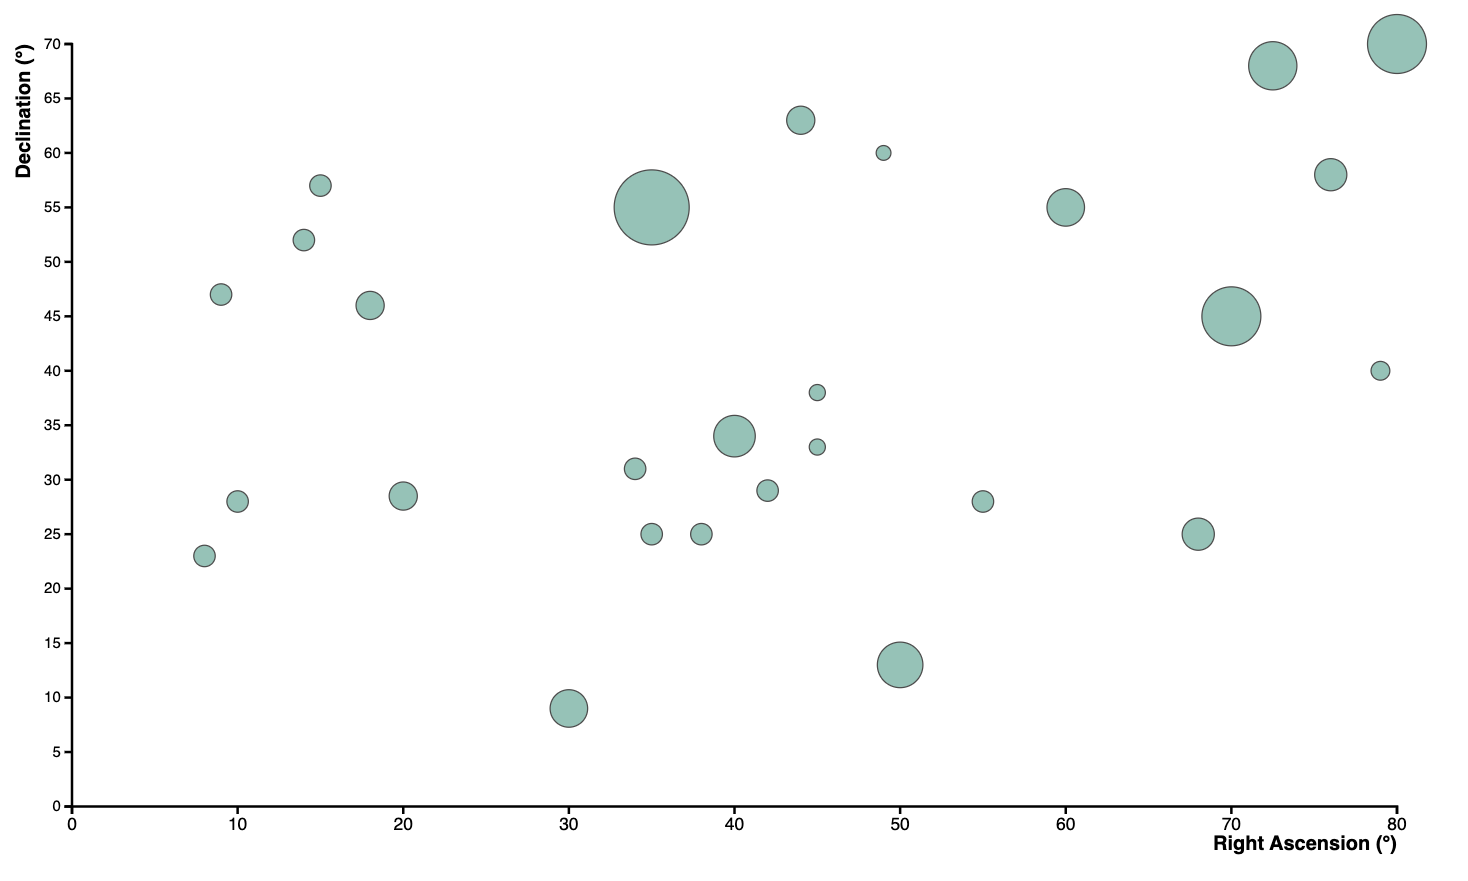
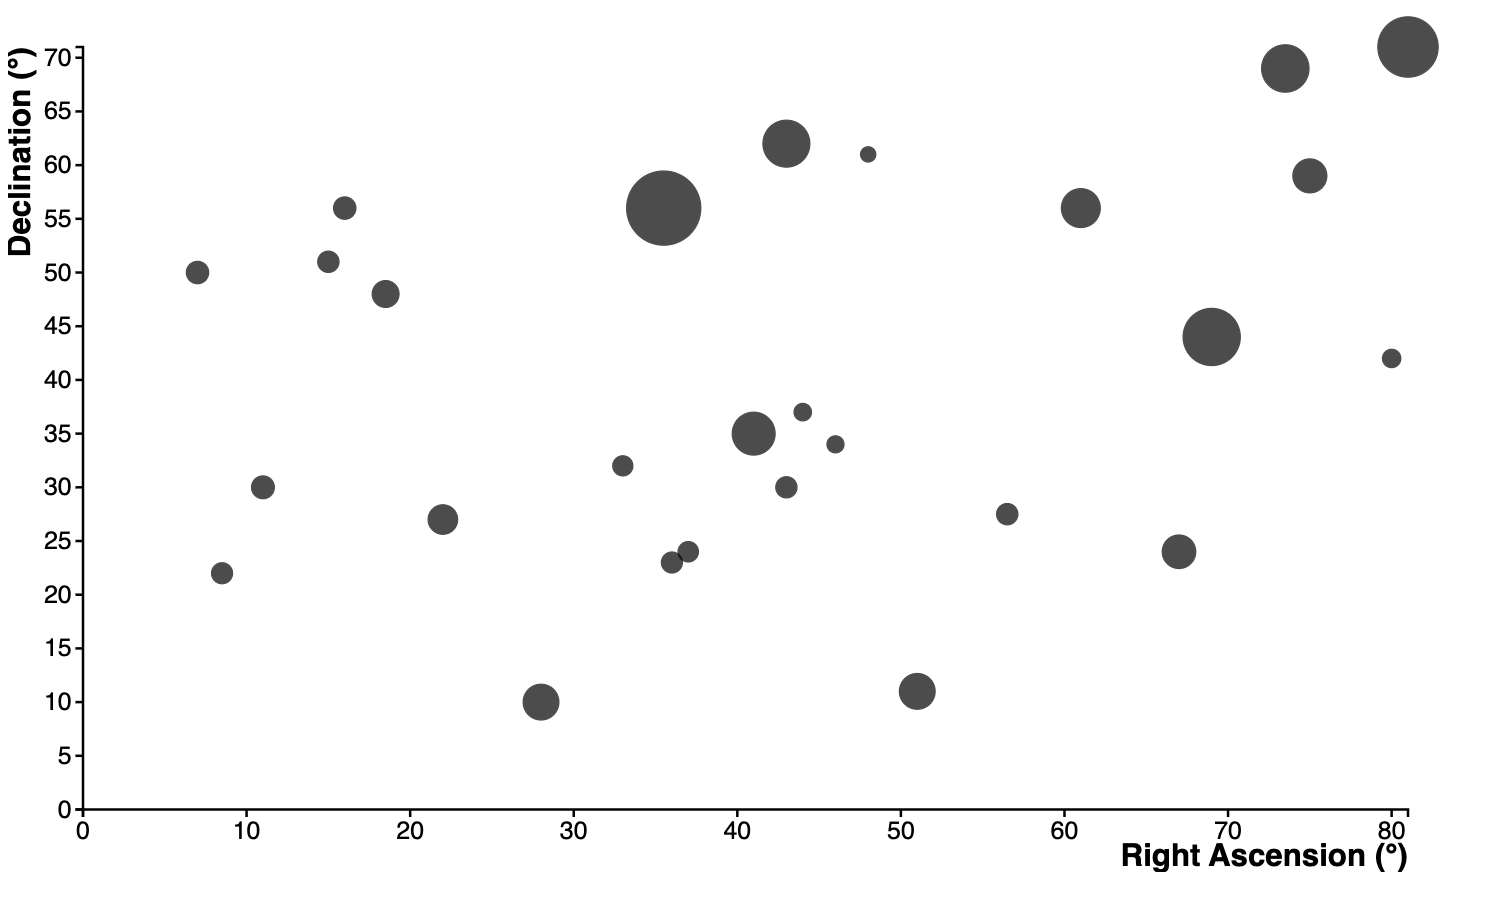
added bubble

diff --git a/dist/bundle.js b/dist/bundle.js
@@ -10,13 +10,13 @@
 /******/ 	"use strict";
 /******/ 	var __webpack_modules__ = ({
 
-/***/ "./butterfly/main.ts":
-/*!***************************!*\
-  !*** ./butterfly/main.ts ***!
-  \***************************/
+/***/ "./scatter/main.ts":
+/*!*************************!*\
+  !*** ./scatter/main.ts ***!
+  \*************************/
 /***/ (function(__unused_webpack_module, exports, __webpack_require__) {
 
-eval("\nvar __createBinding = (this && this.__createBinding) || (Object.create ? (function(o, m, k, k2) {\n    if (k2 === undefined) k2 = k;\n    var desc = Object.getOwnPropertyDescriptor(m, k);\n    if (!desc || (\"get\" in desc ? !m.__esModule : desc.writable || desc.configurable)) {\n      desc = { enumerable: true, get: function() { return m[k]; } };\n    }\n    Object.defineProperty(o, k2, desc);\n}) : (function(o, m, k, k2) {\n    if (k2 === undefined) k2 = k;\n    o[k2] = m[k];\n}));\nvar __setModuleDefault = (this && this.__setModuleDefault) || (Object.create ? (function(o, v) {\n    Object.defineProperty(o, \"default\", { enumerable: true, value: v });\n}) : function(o, v) {\n    o[\"default\"] = v;\n});\nvar __importStar = (this && this.__importStar) || function (mod) {\n    if (mod && mod.__esModule) return mod;\n    var result = {};\n    if (mod != null) for (var k in mod) if (k !== \"default\" && Object.prototype.hasOwnProperty.call(mod, k)) __createBinding(result, mod, k);\n    __setModuleDefault(result, mod);\n    return result;\n};\nvar __importDefault = (this && this.__importDefault) || function (mod) {\n    return (mod && mod.__esModule) ? mod : { \"default\": mod };\n};\nObject.defineProperty(exports, \"__esModule\", ({ value: true }));\nconst d3 = __importStar(__webpack_require__(/*! d3 */ \"./node_modules/d3/src/index.js\"));\nconst phase2_json_1 = __importDefault(__webpack_require__(/*! ./phase2.json */ \"./butterfly/phase2.json\"));\n// Set up the SVG canvas dimensions\nconst margin = { top: 30, right: 40, bottom: 40, left: 40 };\nconst width = 960 - margin.left - margin.right;\nconst height = 500 - margin.top - margin.bottom;\nconst svg = d3.select('#butterfly')\n    .append('svg')\n    .attr('width', width + margin.left + margin.right)\n    .attr('height', height + margin.top + margin.bottom)\n    .append('g')\n    .attr('transform', `translate(${margin.left},${margin.top})`);\n// Process the data\nconst data = phase2_json_1.default.map(d => ({\n    nailID: d.nailID,\n    totalLength: +d.totalLength,\n    depthBelowSurface: +d.depthBelowSurface,\n    lengthAboveSurface: +d.lengthAboveSurface\n}));\n// Define scales\n// xScale: from -15 to 15, with 0 in the center\nconst maxDepth = d3.max(data, d => d.depthBelowSurface);\nconst maxLength = d3.max(data, d => d.lengthAboveSurface);\nconst maxValue = Math.max(maxDepth, maxLength, 15); // Ensure axis extends to at least 15\nconst xScale = d3.scaleLinear()\n    .domain([-maxValue, maxValue])\n    .range([0, width]);\n// yScale: Each nailID along the vertical axis\nconst yScale = d3.scaleBand()\n    .domain(data.map(d => d.nailID.toString()))\n    .range([0, height])\n    .padding(0.1);\n// Define left and right colors\nconst depthColor = 'steelblue'; // Left side (negative values)\nconst lengthColor = 'orange'; // Right side (positive values)\n// Add x-axis\nconst xAxis = d3.axisBottom(xScale)\n    .ticks(10);\nsvg.append('g')\n    .attr('transform', `translate(0,${height})`)\n    .call(xAxis);\n// Add y-axis\nconst yAxis = d3.axisLeft(yScale);\nsvg.append('g')\n    .call(yAxis);\n// Draw the bars for depthBelowSurface (left side)\nsvg.selectAll('.bar-depth')\n    .data(data)\n    .enter()\n    .append('rect')\n    .attr('class', 'bar-depth')\n    .attr('x', d => xScale(-d.depthBelowSurface))\n    .attr('y', d => yScale(d.nailID.toString()))\n    .attr('width', d => xScale(0) - xScale(-d.depthBelowSurface))\n    .attr('height', yScale.bandwidth())\n    .attr('fill', depthColor);\n// Draw the bars for lengthAboveSurface (right side)\nsvg.selectAll('.bar-length')\n    .data(data)\n    .enter()\n    .append('rect')\n    .attr('class', 'bar-length')\n    .attr('x', xScale(0))\n    .attr('y', d => yScale(d.nailID.toString()))\n    .attr('width', d => xScale(d.lengthAboveSurface) - xScale(0))\n    .attr('height', yScale.bandwidth())\n    .attr('fill', lengthColor);\n// Add a vertical line at x = 0 (the central axis)\nsvg.append('line')\n    .attr('x1', xScale(0))\n    .attr('y1', 0)\n    .attr('x2', xScale(0))\n    .attr('y2', height)\n    .attr('stroke', 'black')\n    .attr('stroke-width', 1);\n// Optional: Add titles for each side\nsvg.append('text')\n    .attr('x', xScale(-maxValue / 2))\n    .attr('y', -10)\n    .attr('text-anchor', 'middle')\n    .attr('fill', depthColor)\n    .text('Depth into Wall (cm)');\nsvg.append('text')\n    .attr('x', xScale(maxValue / 2))\n    .attr('y', -10)\n    .attr('text-anchor', 'middle')\n    .attr('fill', lengthColor)\n    .text('Exposed Length (cm)');\n\n\n//# sourceURL=webpack://analogyvis/./butterfly/main.ts?");
+eval("\nvar __createBinding = (this && this.__createBinding) || (Object.create ? (function(o, m, k, k2) {\n    if (k2 === undefined) k2 = k;\n    var desc = Object.getOwnPropertyDescriptor(m, k);\n    if (!desc || (\"get\" in desc ? !m.__esModule : desc.writable || desc.configurable)) {\n      desc = { enumerable: true, get: function() { return m[k]; } };\n    }\n    Object.defineProperty(o, k2, desc);\n}) : (function(o, m, k, k2) {\n    if (k2 === undefined) k2 = k;\n    o[k2] = m[k];\n}));\nvar __setModuleDefault = (this && this.__setModuleDefault) || (Object.create ? (function(o, v) {\n    Object.defineProperty(o, \"default\", { enumerable: true, value: v });\n}) : function(o, v) {\n    o[\"default\"] = v;\n});\nvar __importStar = (this && this.__importStar) || function (mod) {\n    if (mod && mod.__esModule) return mod;\n    var result = {};\n    if (mod != null) for (var k in mod) if (k !== \"default\" && Object.prototype.hasOwnProperty.call(mod, k)) __createBinding(result, mod, k);\n    __setModuleDefault(result, mod);\n    return result;\n};\nvar __importDefault = (this && this.__importDefault) || function (mod) {\n    return (mod && mod.__esModule) ? mod : { \"default\": mod };\n};\nObject.defineProperty(exports, \"__esModule\", ({ value: true }));\nconst d3 = __importStar(__webpack_require__(/*! d3 */ \"./node_modules/d3/src/index.js\"));\nconst phase2_json_1 = __importDefault(__webpack_require__(/*! ./phase2.json */ \"./scatter/phase2.json\"));\n// Set up the SVG canvas dimensions\nconst width = 1160;\nconst height = 700;\nconst margin = { top: 40, right: 40, bottom: 50, left: 60 };\n// Create the SVG container\nconst svg = d3.select('#scatter')\n    .append('svg')\n    .attr('width', width)\n    .attr('height', height);\n// Prepare the data\nconst data = phase2_json_1.default;\n// Define scales\nconst x = d3.scaleLinear()\n    .domain([0, d3.max(data, d => d.ra)])\n    .range([margin.left, width - margin.right]);\nconst y = d3.scaleLinear()\n    .domain([0, d3.max(data, d => d.dec)])\n    .range([height - margin.bottom, margin.top]);\n// Define a scale for circle sizes based on brightness\nconst size = d3.scaleLinear()\n    .domain(d3.extent(data, d => d.brightness)).nice()\n    .range([5, 30]); // Larger variation: smallest to largest size of dots\n// Create axes\nconst xAxis = d3.axisBottom(x).ticks(10).tickFormat(d3.format(\".0f\"));\nconst yAxis = d3.axisLeft(y).ticks(15);\n// Add X axis\nsvg.append('g')\n    .attr('transform', `translate(0, ${height - margin.bottom})`)\n    .call(xAxis)\n    .call(g => g.selectAll(\".domain, .tick line\").style(\"stroke-width\", \"2px\")) // Increase line width\n    .call(g => g.selectAll(\".tick text\").style(\"font-size\", \"20px\")) // Increase tick label font size\n    .append('text')\n    .attr('x', width - margin.right)\n    .attr('y', 45)\n    .attr('fill', '#000')\n    .attr('text-anchor', 'end')\n    .attr('font-weight', 'bold')\n    .attr('font-size', '25px') // Change font size\n    .text('Right Ascension (°)');\n// Add Y axis\nsvg.append('g')\n    .attr('transform', `translate(${margin.left}, 0)`)\n    .call(yAxis)\n    .call(g => g.selectAll(\".domain, .tick line\").style(\"stroke-width\", \"2px\")) // Increase line width\n    .call(g => g.selectAll(\".tick text\").style(\"font-size\", \"20px\")) // Increase tick label font size\n    .append('text')\n    .attr('transform', 'rotate(-90)')\n    .attr('x', -margin.top)\n    .attr('y', -60)\n    .attr('dy', '.71em')\n    .attr('fill', '#000')\n    .attr('text-anchor', 'end')\n    .attr('font-weight', 'bold')\n    .attr('font-size', '25px') // Change font size\n    .text('Declination (°)');\n// Draw scatter plot\nsvg.append('g')\n    .selectAll('circle')\n    .data(data)\n    .enter()\n    .append('circle')\n    .attr('cx', d => x(d.ra))\n    .attr('cy', d => y(d.dec))\n    .attr('r', d => size(d.brightness))\n    .style('fill', '#000000')\n    .style('opacity', 0.7)\n    .attr('stroke', 'black');\n// Optionally, add tooltip on hover\nconst tooltip = d3.select('#scatter')\n    .append('div')\n    .style('opacity', 0)\n    .attr('class', 'tooltip')\n    .style('background-color', 'white')\n    .style('border', 'solid')\n    .style('border-width', '1px')\n    .style('border-radius', '5px')\n    .style('padding', '10px')\n    .style('position', 'absolute');\nconst mouseover = function (event, d) {\n    tooltip\n        .style('opacity', 1);\n    d3.select(this)\n        .style('stroke', 'red')\n        .style('opacity', 1);\n};\nconst mousemove = function (event, d) {\n    tooltip\n        .html(`RA: ${d.ra}<br>Dec: ${d.dec}<br>Brightness: ${d.brightness}${d.note ? '<br>Note: ' + d.note : ''}`)\n        .style('left', (event.pageX + 15) + 'px')\n        .style('top', (event.pageY - 28) + 'px');\n};\nconst mouseleave = function (event, d) {\n    tooltip\n        .style('opacity', 0);\n    d3.select(this)\n        .style('stroke', 'black')\n        .style('opacity', 0.7);\n};\nsvg.selectAll('circle')\n    .on('mouseover', mouseover)\n    .on('mousemove', mousemove)\n    .on('mouseleave', mouseleave);\n\n\n//# sourceURL=webpack://analogyvis/./scatter/main.ts?");
 
 /***/ }),
 
@@ -5680,13 +5680,13 @@ eval("__webpack_require__.r(__webpack_exports__);\n/* harmony export */ __webpac
 
 /***/ }),
 
-/***/ "./butterfly/phase2.json":
-/*!*******************************!*\
-  !*** ./butterfly/phase2.json ***!
-  \*******************************/
+/***/ "./scatter/phase2.json":
+/*!*****************************!*\
+  !*** ./scatter/phase2.json ***!
+  \*****************************/
 /***/ ((module) => {
 
-eval("module.exports = /*#__PURE__*/JSON.parse('[{\"nailID\":1,\"totalLength\":14,\"depthBelowSurface\":3,\"lengthAboveSurface\":11},{\"nailID\":2,\"totalLength\":18,\"depthBelowSurface\":12,\"lengthAboveSurface\":6},{\"nailID\":3,\"totalLength\":16,\"depthBelowSurface\":6,\"lengthAboveSurface\":10},{\"nailID\":4,\"totalLength\":11,\"depthBelowSurface\":7,\"lengthAboveSurface\":4},{\"nailID\":5,\"totalLength\":18,\"depthBelowSurface\":10,\"lengthAboveSurface\":8},{\"nailID\":6,\"totalLength\":20,\"depthBelowSurface\":14,\"lengthAboveSurface\":6},{\"nailID\":7,\"totalLength\":15,\"depthBelowSurface\":5,\"lengthAboveSurface\":10},{\"nailID\":8,\"totalLength\":21,\"depthBelowSurface\":13,\"lengthAboveSurface\":8},{\"nailID\":9,\"totalLength\":17,\"depthBelowSurface\":11,\"lengthAboveSurface\":6},{\"nailID\":10,\"totalLength\":15,\"depthBelowSurface\":10,\"lengthAboveSurface\":5}]');\n\n//# sourceURL=webpack://analogyvis/./butterfly/phase2.json?");
+eval("module.exports = /*#__PURE__*/JSON.parse('[{\"ra\":8.5,\"dec\":22,\"brightness\":14.5},{\"ra\":11,\"dec\":30,\"brightness\":16.5},{\"ra\":7,\"dec\":50,\"brightness\":16},{\"ra\":15,\"dec\":51,\"brightness\":14.8},{\"ra\":16,\"dec\":56,\"brightness\":16,\"note\":\"Galaxy Center\"},{\"ra\":18.5,\"dec\":48,\"brightness\":21,\"note\":\"Bright Star\"},{\"ra\":22,\"dec\":27,\"brightness\":24},{\"ra\":28,\"dec\":10,\"brightness\":31},{\"ra\":36,\"dec\":23,\"brightness\":14.5},{\"ra\":33,\"dec\":32,\"brightness\":13.5},{\"ra\":35.5,\"dec\":56,\"brightness\":74,\"note\":\"Cluster Star\"},{\"ra\":37,\"dec\":24,\"brightness\":13.8},{\"ra\":41,\"dec\":35,\"brightness\":39},{\"ra\":43,\"dec\":30,\"brightness\":14.7},{\"ra\":46,\"dec\":34,\"brightness\":10,\"note\":\"Cluster Edge\"},{\"ra\":44,\"dec\":37,\"brightness\":10.5,\"note\":\"Cluster Star\"},{\"ra\":43,\"dec\":62,\"brightness\":43.5,\"note\":\"Cluster Star\"},{\"ra\":48,\"dec\":61,\"brightness\":8},{\"ra\":51,\"dec\":11,\"brightness\":31},{\"ra\":56.5,\"dec\":27.5,\"brightness\":14.8},{\"ra\":61,\"dec\":56,\"brightness\":34.5,\"note\":\"Outlier Star\"},{\"ra\":67,\"dec\":24,\"brightness\":28.5},{\"ra\":69,\"dec\":44,\"brightness\":55},{\"ra\":73.5,\"dec\":69,\"brightness\":44},{\"ra\":75,\"dec\":59,\"brightness\":29},{\"ra\":80,\"dec\":42,\"brightness\":11.5},{\"ra\":81,\"dec\":71,\"brightness\":58.5}]');\n\n//# sourceURL=webpack://analogyvis/./scatter/phase2.json?");
 
 /***/ })
 
@@ -5750,7 +5750,7 @@ eval("module.exports = /*#__PURE__*/JSON.parse('[{\"nailID\":1,\"totalLength\":1
 /******/ 	// startup
 /******/ 	// Load entry module and return exports
 /******/ 	// This entry module is referenced by other modules so it can't be inlined
-/******/ 	var __webpack_exports__ = __webpack_require__("./butterfly/main.ts");
+/******/ 	var __webpack_exports__ = __webpack_require__("./scatter/main.ts");
 /******/ 	
 /******/ })()
 ;

diff --git a/scatter/index.html b/scatter/index.html
@@ -6,7 +6,6 @@
   <style>
     body {
       margin: 1rem;
-      background-color: #e2d2b8;
     }
     #scatter {
       width: 1160px;

diff --git a/analysis/extract_image.py b/analysis/extract_image.py
@@ -129,7 +129,7 @@ print(f"Updated CSV has been saved to: {output_file}")
 background_charts = {
     "stackedArea": ["https://raw.githubusercontent.com/oliphant0803/AnalogyVis/refs/heads/main/analogyCharts/stackedArea/actual.png, https://raw.githubusercontent.com/oliphant0803/AnalogyVis/refs/heads/main/analogyCharts/stackedArea/StackedArea.png"],
     "waterfall": ["https://raw.githubusercontent.com/oliphant0803/AnalogyVis/refs/heads/main/analogyCharts/waterfall/actualTask.png", "https://raw.githubusercontent.com/oliphant0803/AnalogyVis/refs/heads/main/analogyCharts/waterfall/WaterfallTask.png"],
-    "butterfly": ["https://raw.githubusercontent.com/oliphant0803/AnalogyVis/refs/heads/main/analogyCharts/butterfly/Screenshot%202024-11-27%20at%207.16.59%20PM.png","https://github.com/oliphant0803/AnalogyVis/blob/main/analogyCharts/butterfly/ButterflyTask.png?raw=true"],
+    "butterfly": ["https://raw.githubusercontent.com/oliphant0803/AnalogyVis/refs/heads/main/analogyCharts/butterfly/actualTask.png","https://github.com/oliphant0803/AnalogyVis/blob/main/analogyCharts/butterfly/ButterflyTask.png?raw=true"],
     "bubble": ["https://github.com/oliphant0803/AnalogyVis/blob/main/analogyCharts/bubble/Scatter.png?raw=true", "https://raw.githubusercontent.com/oliphant0803/AnalogyVis/refs/heads/main/analogyCharts/bubble/actual.png"],
     "histogram": ["https://raw.githubusercontent.com/oliphant0803/AnalogyVis/refs/heads/main/analogyCharts/histogram/actual.png", "https://raw.githubusercontent.com/oliphant0803/AnalogyVis/refs/heads/main/analogyCharts/histogram/Histogram_Grade_Analogy%202.png"],
     "treemap": ["https://raw.githubusercontent.com/oliphant0803/AnalogyVis/refs/heads/main/analogyCharts/treemap/actual.png", "https://github.com/oliphant0803/AnalogyVis/blob/main/analogyCharts/treemap/Treemap.png?raw=true"],
